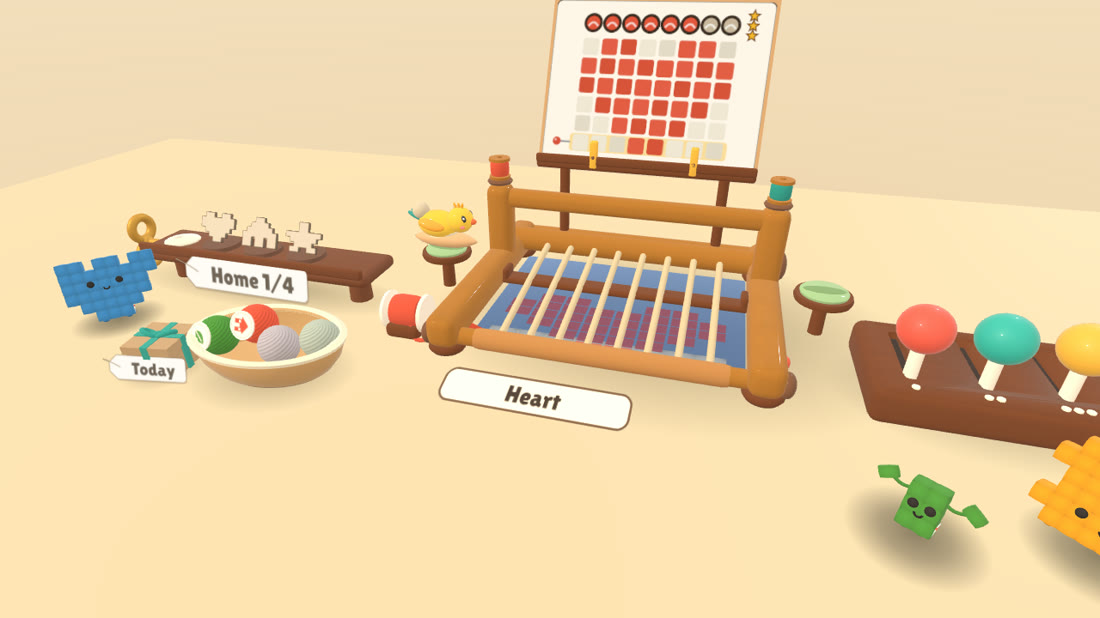
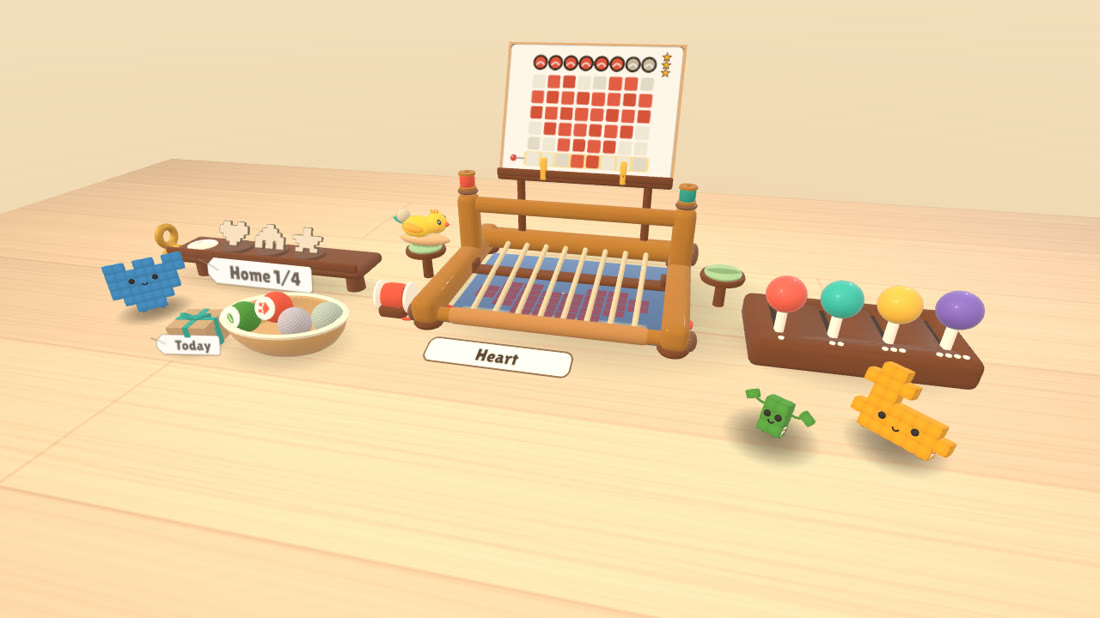
Site photos: maple-plank desk with a soft vignette on the photo set; Pip shown mid-slide with the ghost hand pinching it; the levers photo from higher up with cloth woven; a wider hero with the desk plushes; step numbers are sewn felt patches

diff --git a/src/loom/loom-view.ts b/src/loom/loom-view.ts
@@ -1453,8 +1453,9 @@ export class LoomView {
     if (on && !this.photo) {
       const g = new Group();
       g.name = 'PhotoSet';
-      // a plain pale-maple tabletop (a busy grain read as sand dunes)
-      const desk = new Mesh(new PlaneGeometry(1.8, 1.1), new MeshStandardMaterial({ color: 0xe2c29c, roughness: 0.62 }));
+      // a pale maple tabletop: planks running left to right, a faint fine grain, a soft vignette (low contrast:
+      // a busy grain read as sand dunes)
+      const desk = new Mesh(new PlaneGeometry(1.8, 1.1), new MeshStandardMaterial({ map: mapleTexture(), roughness: 0.62 }));
       desk.rotation.x = -Math.PI / 2;
       desk.position.set(0, -0.0008, 0.12);
       desk.receiveShadow = true;
@@ -1760,4 +1761,53 @@ function mysteryMark(): Mesh {
   m.name = 'MysteryMark';
   m.rotation.x = -Math.PI / 2; // undo the ring's turn: dome up again
   return m;
+}
+
+/** Photo-set tabletop: maple planks with a quiet grain and a soft vignette baked in (capture only). */
+function mapleTexture(): CanvasTexture {
+  const W = 1024;
+  const H = 640;
+  const c = document.createElement('canvas');
+  c.width = W;
+  c.height = H;
+  const g = c.getContext('2d')!;
+  let seed = 21;
+  const rnd = () => ((seed = (seed * 16807) % 2147483647) / 2147483647);
+  const plank = 92;
+  for (let y = 0, k = 0; y < H; y += plank, k++) {
+    // each plank a touch different
+    const l = 0.97 + rnd() * 0.06;
+    g.fillStyle = `rgb(${Math.round(226 * l)},${Math.round(194 * l)},${Math.round(156 * l)})`;
+    g.fillRect(0, y, W, plank);
+    // fine grain: long, slightly wavy streaks along the plank
+    for (let i = 0; i < 46; i++) {
+      const yy = y + rnd() * plank;
+      const amp = 1 + rnd() * 3;
+      const ph = rnd() * 6;
+      g.strokeStyle = `rgba(${rnd() < 0.5 ? '120,80,40' : '255,240,215'},${0.035 + rnd() * 0.04})`;
+      g.lineWidth = 0.6 + rnd() * 1.2;
+      g.beginPath();
+      for (let x = 0; x <= W; x += 16) {
+        const py = yy + Math.sin(x / (90 + i * 3) + ph) * amp;
+        if (x === 0) g.moveTo(x, py);
+        else g.lineTo(x, py);
+      }
+      g.stroke();
+    }
+    // the seam between planks, offset per plank
+    g.fillStyle = 'rgba(110,70,35,0.16)';
+    g.fillRect(0, y, W, 1.5);
+    const cut = (k * 337) % W;
+    g.fillRect(cut, y, 1.5, plank);
+  }
+  // a soft vignette: the far corners fall off so the eye stays on the loom
+  const v = g.createRadialGradient(W / 2, H * 0.45, H * 0.25, W / 2, H * 0.45, W * 0.62);
+  v.addColorStop(0, 'rgba(60,35,15,0)');
+  v.addColorStop(1, 'rgba(60,35,15,0.28)');
+  g.fillStyle = v;
+  g.fillRect(0, 0, W, H);
+  const t = new CanvasTexture(c);
+  t.colorSpace = SRGBColorSpace;
+  t.anisotropy = 8;
+  return t;
 }

diff --git a/index.html b/index.html
@@ -156,9 +156,11 @@
       #landing .hang::before { display: none; content: ''; position: absolute; left: 11px; top: 18px; width: 7px; height: 7px; border-radius: 50%;
         background: var(--felt); box-shadow: inset 0 1px 1px #0006; }
       #landing .hang b { display: flex; align-items: center; gap: 8px; font: 400 19px/1.1 var(--display); color: var(--walnut); margin-bottom: 6px; }
-      /* a stitched numeral, sewn on rather than typed */
-      #landing .hang .num { display: inline-grid; place-items: center; width: 28px; height: 28px; flex: none; border-radius: 50%;
-        border: 2px solid var(--tomato); border-radius: 48% 52% 50% 46% / 52% 47% 53% 48%; transform: rotate(-8deg); color: var(--tomato); font: 400 16px var(--display); }
+      /* a felt patch sewn on: tomato felt, a cream running stitch inside the edge, a cream numeral */
+      #landing .hang .num { display: inline-grid; place-items: center; width: 31px; height: 31px; flex: none;
+        background: var(--felt-noise, none), var(--tomato); color: #fff4de; font: 400 16px var(--display);
+        border-radius: 48% 52% 50% 46% / 52% 47% 53% 48%; transform: rotate(-8deg);
+        outline: 1.6px dashed #fff1d6; outline-offset: -5px; box-shadow: 0 1px 0 #0003, 0 2px 4px -2px #0005; }
       #landing .s2 .hang { margin-left: auto; margin-right: 6px; transform: rotate(-2.2deg); }
       #landing .s3 .hang { margin-left: 34px; transform: none; }
 
